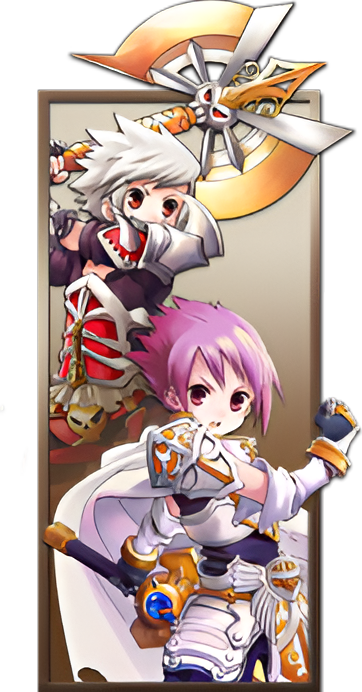
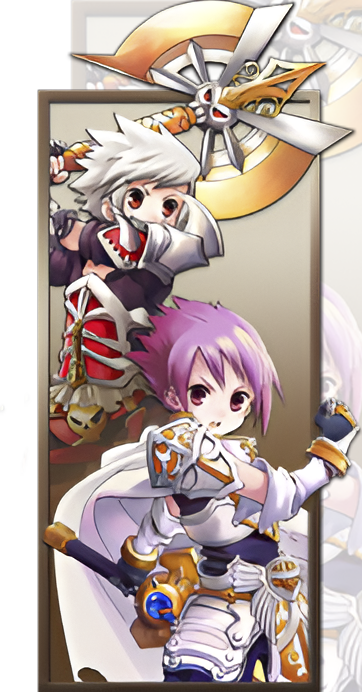
adding classes section

diff --git a/src/components/classes.jsx b/src/components/classes.jsx
@@ -1,42 +1,151 @@
-import Link from 'next/link';
+'use client';
+
+import { useState, useRef } from 'react';
+import { gsap } from 'gsap';
+import Image from 'next/image';
 import ClassesCard from './classesCard';
+
 export default function Classes() {
+  const [currentIndex, setCurrentIndex] = useState(0);
+  const isAnimating = useRef(false);
+
+  const showClass = (index) => {
+    if (isAnimating.current) return; // If animation is in progress, do not proceed
+
+    isAnimating.current = true; // Set animation flag to true
+    gsap.to('.class-card', { display: 'none', duration: 0 });
+    gsap.to(`#class-${index}`, {
+      display: 'flex',
+      duration: 1,
+      onComplete: () => {
+        setCurrentIndex(index); // Update current index after animation completes
+        isAnimating.current = false; // Reset animation flag
+      }
+    });
+  };
+
   return (
-    <section className='flex flex-col justify-center w-full'>
+    <section className='flex flex-col justify-center w-full background'>
       <h1 className='text-4xl text-center'>Classes</h1>
 
-      <article>
-        <ClassesCard
-          path1={'Berkerker'}
-          path2={'Paladin'}
-          className={'Warrior'}
-          image={'/classes/warrior.png'}
-          description={
-            'Los luchadores son conocidos por su fuerza y poder y son capaces de utilizar una gran variedad de armas de combate.'
-          }
-        />
-      </article>
+      <section className='flex justify-center'>
+        <article className={`flex justify-center class-card`} id='class-0'>
+          <ClassesCard
+            path1={'BERSERKER'}
+            path2={'PALADIN'}
+            job={'FIGHTER'}
+            image={'/classes/warrior.png'}
+            hometown={'Kaslow'}
+            description={`Fighters are known for their strength and power and are capable of using a wide variety of combat weapons. At level 15 they advance to Warrior, and at level 30 they get to choose between Berserker or Paladin.`}
+          />
+        </article>
+
+        <article className={`hidden justify-center class-card`} id='class-1'>
+          <ClassesCard
+            path1={'RANGER'}
+            path2={'ASSASSIN'}
+            job={'HUNTER'}
+            image={'/classes/archer.png'}
+            hometown={'Jale'}
+            description={`Hunters are masters of ranged attack, capable of using swords, bows and firearms. At level 15 they advance to Archer, and at level 30 they get to choose between Ranger or Assassin.`}
+          />
+        </article>
+
+        <article className={`hidden justify-center class-card`} id='class-2'>
+          <ClassesCard
+            path1={'CLERIC'}
+            path2={'SAGE'}
+            job={'ACOLYTE'}
+            image={'/classes/priest.png'}
+            hometown={'Ilya'}
+            description={`Acolytes are powerful healers, capable of resurrecting players from the brink of death and even resurrecting them after death. At level 15 they advance to Priest, and at level 30 they get to choose between Cleric or Sage.`}
+          />
+        </article>
+
+        <article className={`hidden justify-center class-card`} id='class-3'>
+          <ClassesCard
+            path1={'WIZARD'}
+            path2={'NECROMANCER'}
+            job={'SORCERER'}
+            image={'/classes/mage.png'}
+            hometown={'Ilya'}
+            description={`Sorcerers are mysterious, wielding the powers of magic with great control and dedication. At level 15 they advance to Mage, and at level 30 they get to choose between Wizard or Necromancer.`}
+          />
+        </article>
+
+        <article className={`hidden justify-center class-card`} id='class-4'>
+          <ClassesCard
+            path1={'DEMOLITIONIST'}
+            path2={'ENGINEER'}
+            job={'MECHANIC'}
+            image={'/classes/archer.png'}
+            hometown={'Jale'}
+            description={`Mechanics are half-man, half-machine specialized in armed combat and heavy weaponry. Their damage makes them a valued ally and ferocious enemy. At level 15 they advance to Machinist, and at level 30 they get to choose between Demolitionist or Engineer.`}
+          />
+        </article>
+
+        <article className={`hidden justify-center class-card`} id='class-5'>
+          <ClassesCard
+            path1={'TIME TRAVELER'}
+            path2={'VOID RUNNER'}
+            job={'DRIFTER'}
+            image={'/classes/archer.png'}
+            hometown={'Ilya'}
+            description={`The Wanderer is a versatile class that excels in both melee and ranged combat. They are adept at wielding Katanas and Key weapons, making them adaptable to different playstyles. At level 15 they advance to Drifter, and at level 30 they get to choose between Time Traveler or Void Runner.`}
+          />
+        </article>
+      </section>
 
       <article className='flex justify-center'>
         <ul className='flex gap-5 p-5'>
-          <Link href={'#'}>
-            <li>Warrior</li>
-          </Link>
-          <Link href={'#'}>
-            <li>Archer</li>
-          </Link>
-          <Link href={'#'}>
-            <li>Priest</li>
-          </Link>
-          <Link href={'#'}>
-            <li>Mage</li>
-          </Link>
-          <Link href={'#'}>
-            <li>Machinist</li>
-          </Link>
-          <Link href={'#'}>
-            <li>Traveler</li>
-          </Link>
+          <li onClick={() => showClass(0)}>
+            <Image
+              src={'/classes/warrior-thumbs.png'}
+              alt={'Warrior'}
+              width={100}
+              height={100}
+            />
+          </li>
+          <li onClick={() => showClass(1)}>
+            <Image
+              src={'/classes/archer-thumbs.png'}
+              alt={'Archer'}
+              width={100}
+              height={100}
+            />
+          </li>
+          <li onClick={() => showClass(2)}>
+            <Image
+              src={'/classes/priest-thumbs.png'}
+              alt={'Priest'}
+              width={100}
+              height={100}
+            />
+          </li>
+          <li onClick={() => showClass(3)}>
+            <Image
+              src={'/classes/mage-thumbs.png'}
+              alt={'Mage'}
+              width={100}
+              height={100}
+            />
+          </li>
+          <li onClick={() => showClass(4)}>
+            <Image
+              src={'/classes/machinist-thumbs.png'}
+              alt={'Machinist'}
+              width={100}
+              height={100}
+            />
+          </li>
+          <li onClick={() => showClass(5)}>
+            <Image
+              src={'/classes/warrior-thumbs.png'}
+              alt={'Warrior'}
+              width={100}
+              height={100}
+            />
+          </li>
         </ul>
       </article>
     </section>

diff --git a/src/components/classesCard.jsx b/src/components/classesCard.jsx
@@ -1,29 +1,38 @@
 import Image from 'next/image';
-import '../css/classesCard.css';
 export default function ClassesCard({
   path1,
   path2,
-  className,
+  job,
   image,
+  hometown,
   description
 }) {
   return (
-    <section className='flex justify-center w-full'>
+    <section className='flex justify-center w-full max-w-3xl'>
       <article className='flex'>
-        <ul>
-          <li>{className}</li>
-          <li>{path1}</li>
-          <li>{path2}</li>
-        </ul>
+        <div className='flex flex-col justify-evenly'>
+          <ul className='flex flex-col gap-6 justify-center'>
+            <li className='self-center text-5xl'>{job}</li>
+            <li className='self-center'>
+              <Image src={'/divider-5318234.svg'} width={350} height={10} />
+            </li>
+            <ul className='flex gap-20 justify-evenly text-2xl'>
+              <li>{path1}</li>
+              <li>{path2}</li>
+            </ul>
+          </ul>
+          <div className='flex flex-col gap-2'>
+            <span>Hometown: {hometown}</span>
+            <p>{description}</p>
+          </div>
+        </div>
 
         <Image
           src={image}
-          alt={className}
+          alt={job}
           width={300}
           height={500}
-          className='backgroundImage'
         />
-        <p>{description}</p>
       </article>
     </section>
   );
